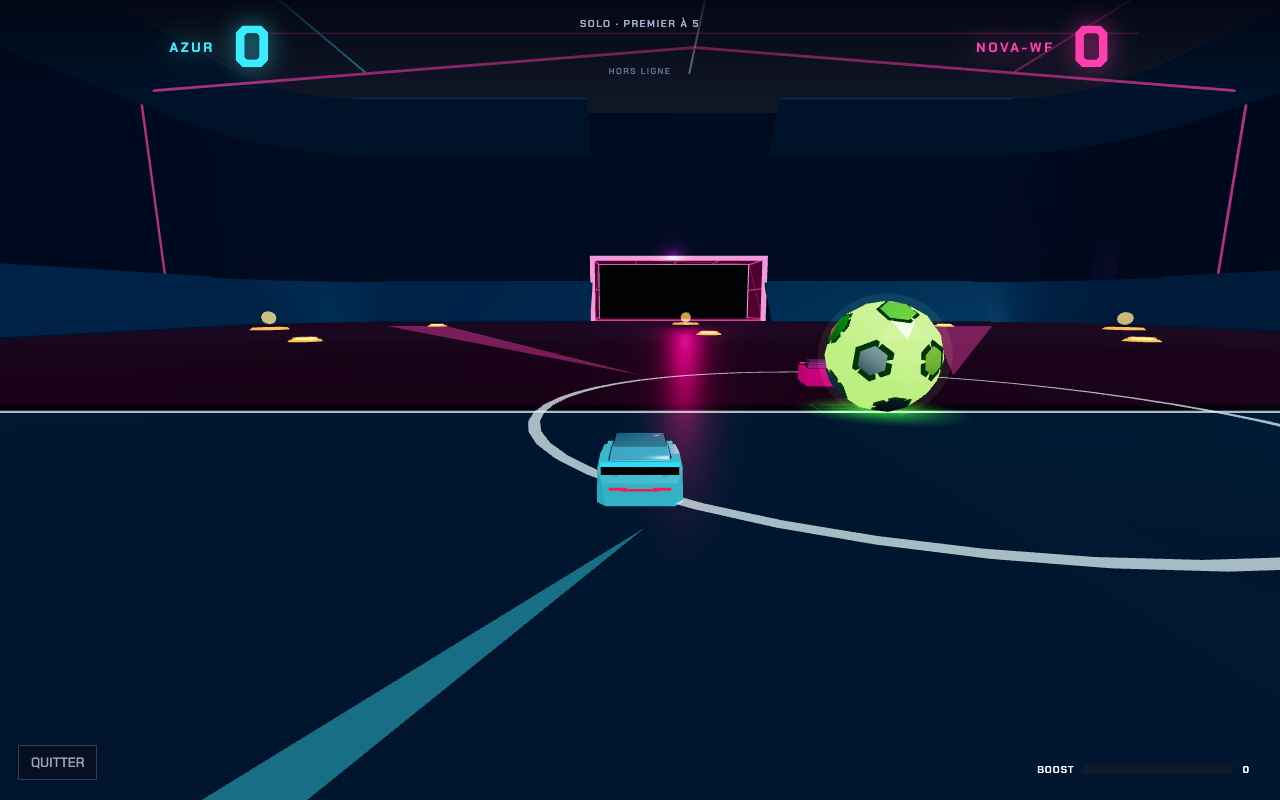
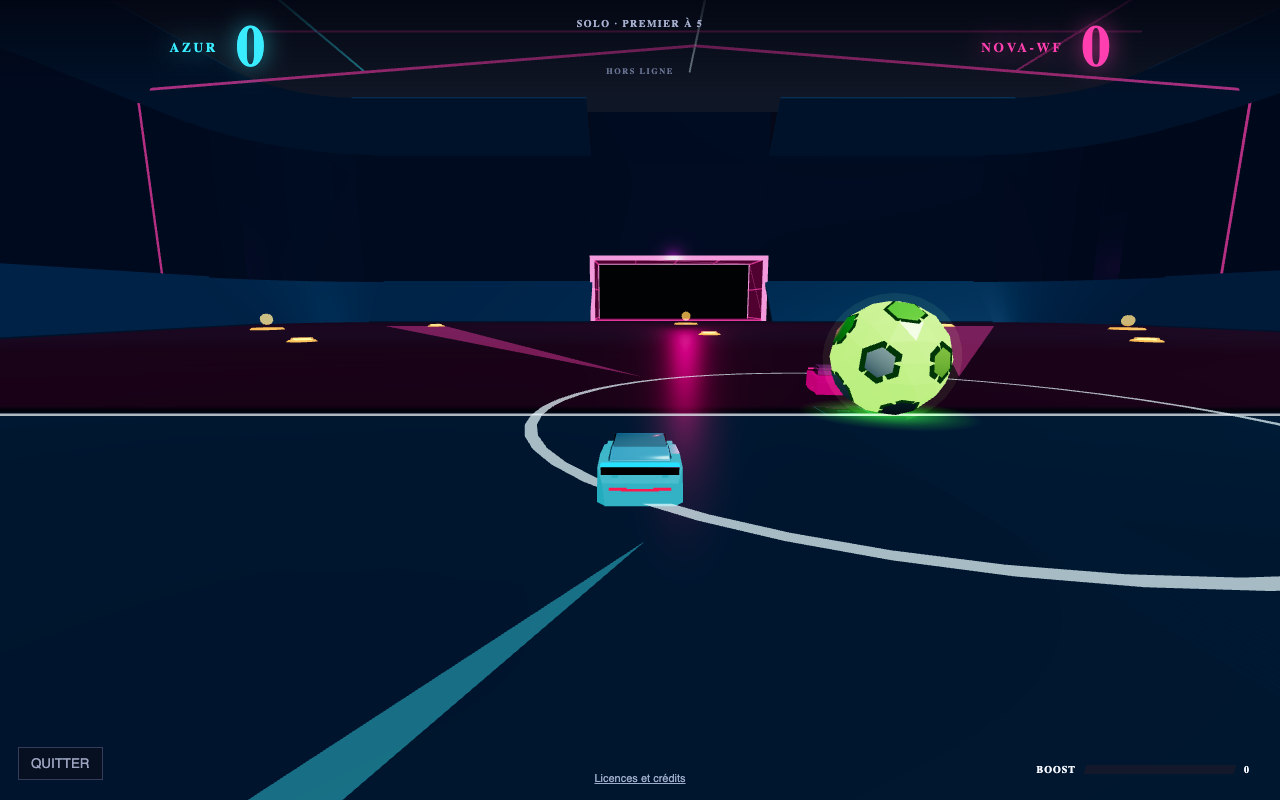
docs: Showcase public gameplay and improve repository navigation

diff --git a/README.md b/README.md
@@ -1,108 +1,86 @@
 # Neon Rocket 3D
 
-A browser-based car-soccer experiment with a neon Three.js arena, WebAssembly vehicle physics, rule-based opponents, and server-authoritative private 1v1 rooms. The interface is in French; this documentation describes the implementation in English.
+**Boost. Jump. Chase the ball. First to five.**
 
-The project explores the boundary between simulation, rendering, networking, and reproducible AI evaluation. It is a prototype, not an official Rocket League client or a production multiplayer service.
+Browser car-soccer in a neon arena: Three.js visuals, RocketSim vehicle physics compiled to WebAssembly, three rule-based opponents, and self-hosted private 1v1 rooms.
 
-![Actual Chrome gameplay: Neon Rocket solo against NOVA-WF](docs/images/solo-gameplay.png)
+**[Play the solo demo →](https://airope.github.io/neon-rocket/)** · **[Browse the source](https://github.com/airope/neon-rocket)** · **[Host a private match](docs/SELF_HOSTING.md)**
 
-## Play now
+[![Verify](https://github.com/airope/neon-rocket/actions/workflows/verify.yml/badge.svg?branch=main)](https://github.com/airope/neon-rocket/actions/workflows/verify.yml) [![Release v2.0.0](https://img.shields.io/badge/release-v2.0.0-16cfe5)](https://github.com/airope/neon-rocket/releases/tag/v2.0.0)
 
-**[Launch the solo demo](https://airope.github.io/neon-rocket/)** — three opponents, entirely in your browser. GitHub Pages does **not** host the multiplayer server. For private rooms and live spectator mode, use the self-hosted setup below.
+![Real browser gameplay: the cyan car approaches the ball against NOVA-WF in the neon arena](docs/images/solo-gameplay.png)
 
-[![Verify](https://github.com/airope/neon-rocket/actions/workflows/verify.yml/badge.svg?branch=main)](https://github.com/airope/neon-rocket/actions/workflows/verify.yml)
+*Actual Chrome capture from the public demo — solo against NOVA-WF, running the native RocketSim WebAssembly engine. Not an online match or a rendered mockup.*
 
-## Play locally
+> **The public demo is solo-only.** GitHub Pages does not run the multiplayer server; private rooms and live spectating require self-hosting. The game interface is in French. This is an independent prototype, not an official Rocket League client or a production multiplayer service.
 
-From the repository root:
+## Inside the arena
+
+- **Drive, boost and fly:** jumps, air control, powerslides, boost pickups, scoring and rematches, with an automatic chase camera.
+- **Pick your opponent:** NOVA 1 pursues directly; NOVA 2 adds tactical interception; NOVA-WF adds shadow defense, boost routing and predictive attack. These are hand-written controllers, **not trained neural networks**.
+- **Challenge a friend:** six-character private room codes, server-authoritative simulation and interpolated client rendering. No public matchmaking.
+- **Explore the engineering:** a C++/WASM bridge, custom arena mesh, fixed-step networking and separate physics/evaluation experiments. RocketSim is an upstream engine, not an engine authored by this project.
+
+## Gallery · choose your opponent
+
+<img src="docs/images/demo-lobby.png" width="640" alt="Public demo lobby with opponent selection and an explicit solo-only notice">
+
+*Actual Chrome capture of the GitHub Pages lobby. Server-only controls are disabled; the notice explains why.* Both gallery images are real, unaltered page captures. See [capture provenance](docs/images/README.md).
+
+## Run it yourself
+
+Use **Node.js 24+** with built-in `node:sqlite`, and a browser supporting WebGL and WebAssembly.
 
 ```sh
-node --version
-node --input-type=module -e "import { DatabaseSync } from 'node:sqlite'; const db = new DatabaseSync(':memory:'); console.log(db.prepare('SELECT 1 AS ok').get()); db.close();"
+git clone https://github.com/airope/neon-rocket.git
+cd neon-rocket
 npm ci
 npm test
+npm run verify:native
 npm start
 ```
 
-Open **http://localhost:3444**. Keep the server running while loading assets or playing online. There is no frontend build step.
+Open **http://localhost:3444**. There is no frontend build step. Keep the server running while loading assets or playing online.
 
-- **Runtime:** Node.js **24 or later**, with built-in `node:sqlite`. Local browser and physics validation used Node.js 26.5.0 / npm 11.17.0; CI targets Node.js 24. The probe above checks that SQLite is available in your installation.
-- **Database:** no separate SQLite server, CLI, or npm SQLite binding is needed. The process needs permission to create/write `data/nova-stats.sqlite` and its SQLite sidecar files. Startup opens the database even if you only intend to play solo.
-- **Browser:** requires WebGL and WebAssembly. Keyboard, standard gamepad, and touch input paths exist; device/browser compatibility still needs hands-on verification.
-- **Native assets:** the supplied `native/rocketsim/dist/` files and `shared/rocketsim-wasm-bundled.js` are runtime assets, not disposable build output. `npm ci` does not rebuild them. Native rebuild provenance is a separate release gate; see [verification](docs/VERIFICATION.md).
+- The server creates `data/nova-stats.sqlite` on startup, including for solo use. It needs write permission; no separate database service is required.
+- Keep the supplied `native/rocketsim/dist/` and `shared/rocketsim-wasm-bundled.js` runtime assets. `npm ci` does not rebuild them.
+- Defaults: `HOST=127.0.0.1`, `PORT=3444`. Override the database with `NOVA_STATS_DB`. For remote multiplayer, configure host/origin restrictions and HTTPS/WSS using the [self-hosting guide](docs/SELF_HOSTING.md).
+- For a solo-only static export, run `npm run build:demo`; see [static-demo verification](docs/VERIFICATION.md#reproduce) before deploying.
 
-Optional server configuration (POSIX shell):
+## Three engines, distinct jobs
 
-```sh
-PORT=3445 NOVA_STATS_DB=./data/development.sqlite npm start
-```
-
-`PORT` defaults to `3444`; `HOST` defaults to `127.0.0.1` (loopback only). `NOVA_STATS_DB` defaults to `data/nova-stats.sqlite`. Public multiplayer requires explicit host/origin configuration and HTTPS/WSS; see [self-hosting](docs/SELF_HOSTING.md).
-
-## Modes and engines
-
-| Mode | Simulation location | Engine / implementation |
+| Engine | Where it is used | Why it is here |
 | --- | --- | --- |
-| Solo: NOVA 1, NOVA 2, or NOVA-WF | Browser | Native RocketSim compiled to WebAssembly, via `shared/rocketsim-local-simulation.js` |
-| Private 1v1, six-character room code | Node server; clients send inputs and render snapshots | RocketSim WebAssembly, via `server/rocketsim-room.js` |
-| Observe NOVA 1 vs NOVA 2 | Shared server duel; local fallback when unavailable | Rapier, via `shared/simulation-v3.js` |
-| Historical headless AI evaluation / parameter search | Node scripts | Cannon-es, via `shared/simulation.js` |
+| **RocketSim → WebAssembly** | All three normal solo opponents in the browser; private 1v1 on the Node server | Native vehicle physics integrated through a project-specific C++/JS bridge |
+| **Rapier** | NOVA 1 vs NOVA 2 spectator duel, with a local fallback; developer preview fixtures | A separate simulation and controller path |
+| **Cannon-es** | Historical headless AI evaluation and parameter-search scripts | Reproducible controller experiments, not the playable native simulation |
 
-These are **different physics and controller paths**, not interchangeable benchmarks. All three normal solo selections use RocketSim. Developer-only ball, camera, and match preview query parameters retain a Rapier fixture path.
-
-Solo simulation does not depend on successful multiplayer transport once its assets are loaded, but the page still attempts a Socket.IO connection. This is not an installable offline app or a promise that an uncached page can load without a server.
-
-### What “AI” means here
-
-NOVA controllers are hand-written rules, not trained neural networks or reinforcement-learning policies. On the RocketSim solo path:
-
-- **NOVA 1:** direct approach to the ball.
-- **NOVA 2:** tactical pursuit, threat handling, and interception.
-- **NOVA-WF:** shadow defense, boost routing, and predictive attack.
-
-`shared/rocketsim-nova.js` implements those variants. The legacy controller/evaluation path also includes a parameterized state machine and evolutionary parameter search. Its results do not establish the strength of the RocketSim controllers; no learned policy weights are loaded by the playable app.
+These paths are **not interchangeable benchmarks**. Historical evaluation scores do not establish the strength of the current solo opponents. See [architecture and engine boundaries](docs/ARCHITECTURE.md).
 
 ## Controls
 
 | Input | Action |
 | --- | --- |
-| WASD / arrow keys | Drive and steer; pitch/yaw while airborne |
+| WASD / arrow keys | Drive and steer; pitch/yaw in the air |
 | Space | Jump / second jump |
 | Shift | Boost |
 | Q / E | Air roll |
 | C | Powerslide |
-| Gamepad left stick / triggers | Steering / throttle and brake |
-| Gamepad primary / secondary / third face button | Jump / boost / powerslide |
-| On-screen touch controls | Steering, throttle, brake, jump, boost, drift |
+| Standard gamepad | Left stick / triggers to drive; primary / secondary / third face button for jump / boost / powerslide |
+| On-screen touch controls | Steering, throttle, brake, jump, boost and drift |
 
-The main game uses an automatic chase camera, not the old mouse-orbit camera. Gamepad mappings assume the standard browser layout; physical controllers and mobile devices are not certified by the unit tests.
+Keyboard gameplay has real-browser evidence. Physical gamepads, mobile devices and browser/OS combinations remain unverified; implemented input mappings are not hardware certification.
 
-## What this project implements
+## Verification, not promises
 
-- A procedural neon arena and vehicle presentation, chase camera, HUD, boost effects, and keyboard/gamepad/touch input paths in Three.js.
-- A C++/WebAssembly bridge that connects **upstream RocketSim** to a custom arena mesh and JavaScript match lifecycle; RocketSim itself is not an engine authored by this project.
-- Local rule-based opponents, boost pickups, countdowns, scoring, and rematches.
-- Authoritative private rooms: clients send controls; the server simulates and broadcasts snapshots, with client interpolation for rendering.
-- Separate experiments in Rapier physics and deterministic Cannon-based AI evaluation, kept explicit rather than presented as equivalent benchmarks.
+Recorded Chrome QA passed **42 checks on the public solo demo** and **54 checks on the local server build**, including two-client private-room play. Those runs establish behavior for the tested snapshot, not a hosted multiplayer service or every future revision. The [verification report](docs/VERIFICATION.md) links CI evidence and reproducible commands.
 
-## Engineering map
+Native scoring is covered by real-WASM integration fixtures; Rapier preview screenshots are not native scoring proof. **Live contact-derived AI statistics are not certified.** See the [full limitations](docs/VERIFICATION.md#important-limits) and [release scope](docs/RELEASE_SCOPE.md).
 
-- `public/`: Three.js presentation, French UI, input handling, interpolation, and native-engine diagnostic pages.
-- `shared/`: match contracts, arena geometry, RocketSim adapters/controllers, Rapier simulation, and historical Cannon simulation.
-- `server.js` / `server/`: Express assets and APIs, Socket.IO rooms, fixed-step scheduling, AI statistics, and evaluation tooling.
-- `native/rocketsim/`: C++ bridge and supplied WebAssembly runtime.
-- `test/`: Node tests for physics, controls, room state, network smoothing, statistics, and evaluator behavior. Some browser-facing checks inspect source contracts rather than executing a browser.
+## Read further
 
-The initial baseline had 176 passing tests; additional release regressions cover network boundaries, native scoring, metrics provenance and static packaging. Real Chrome QA exercises all three solo choices and two-client multiplayer. See [VERIFICATION.md](docs/VERIFICATION.md) for exact evidence boundaries and remaining limitations, including physical input devices and live contact statistics.
+[Architecture](docs/ARCHITECTURE.md) · [Self-hosting](docs/SELF_HOSTING.md) · [Verification](docs/VERIFICATION.md) · [Release scope](docs/RELEASE_SCOPE.md) · [Privacy](docs/PRIVACY.md) · [Security](SECURITY.md) · [Contributing](CONTRIBUTING.md)
 
-## Documentation
+### Licensing
 
-- [Architecture and engine boundaries](docs/ARCHITECTURE.md)
-- [Self-hosting and server limits](docs/SELF_HOSTING.md)
-- [Release scope and limitations](docs/RELEASE_SCOPE.md)
-- [Privacy and data lifecycle](docs/PRIVACY.md)
-- [Verification and release checklist](docs/VERIFICATION.md)
-- [Contributing](CONTRIBUTING.md)
-- [Security](SECURITY.md)
-
-Project-authored code is [MIT licensed](LICENSE). RocketSim, Bullet, compiler runtime and browser libraries retain their respective terms: see [third-party notices](THIRD_PARTY_NOTICES.md). Complete legal texts are included in the static export.
+The current code is available under the **[MIT license](LICENSE)**, including the v2.0.0 release. RocketSim, Bullet, compiler runtime and browser libraries retain their respective terms: see [third-party notices](THIRD_PARTY_NOTICES.md).

diff --git a/docs/images/README.md b/docs/images/README.md
@@ -1,0 +1,19 @@
+# Gallery provenance
+
+These are genuine, unaltered Chrome page captures of the [public solo demo](https://airope.github.io/neon-rocket/), not concept art, composite scenes or multiplayer screenshots. The recorded browser run began on 2026-09-17 and passed 42 checks across all three solo opponents. See [verification and limitations](../VERIFICATION.md).
+
+| Published image | Original QA capture | What it shows |
+| --- | --- | --- |
+| `solo-gameplay.png` | `public-browser/solo-3-moving.png` | Active solo play against NOVA-WF; diagnostics in the associated QA report identify the native RocketSim engine |
+| `demo-lobby.png` | `public-browser/solo-3-lobby.png` | Public demo lobby before opponent selection; the visible default is NOVA 1, despite the QA sequence filename |
+
+Both images were visually inspected before inclusion. They contain only the game page: no browser chrome, account information, local filesystem paths, credentials or private room codes. The lobby pilot field contains the generic default “Pilote.” No gameplay state or UI text has been edited. No animation has been synthesized from separate states.
+
+SHA-256 of the published files (identical to the originals):
+
+```text
+9190f4801764beed733dc00c9a872ff7ce56112604386ad508febc10285b2905  solo-gameplay.png
+54b4b3a1619571a4c58b08ad824b9345f52a14b7b8512e86a80926cc6d5b0810  demo-lobby.png
+```
+
+The gameplay image documents native solo presentation and movement, not native goal-scoring or online hosting. Two-client local multiplayer has separate QA evidence; it is not a feature hosted by the public GitHub Pages demo.

diff --git a/.github/pull_request_template.md b/.github/pull_request_template.md
@@ -1,0 +1,17 @@
+## What changed and why
+
+## Verification
+
+List commands run and manual checks performed. State anything not tested.
+
+## Screenshots
+
+For visible changes, attach before/after screenshots without personal data.
+
+## Checklist
+
+- [ ] The change is focused and explained.
+- [ ] Relevant tests and documentation are updated.
+- [ ] No secrets, personal data, generated runtime databases or unrelated files are included.
+- [ ] Third-party code/assets are attributed and their license requirements preserved.
+- [ ] I have the right to submit this contribution under the repository's current contribution terms.
